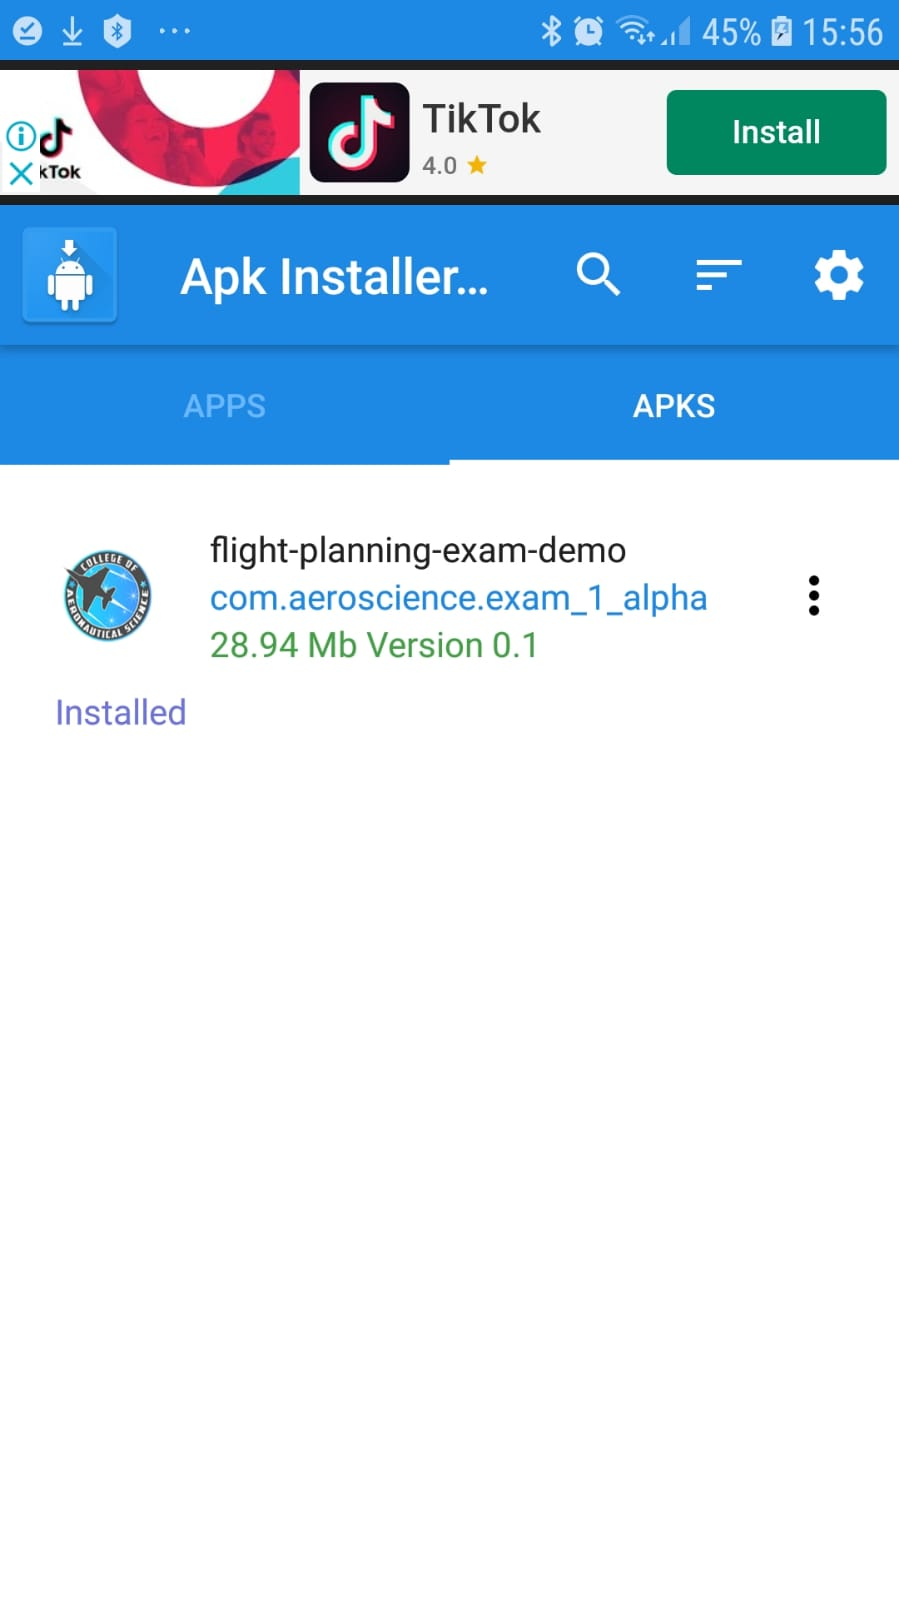
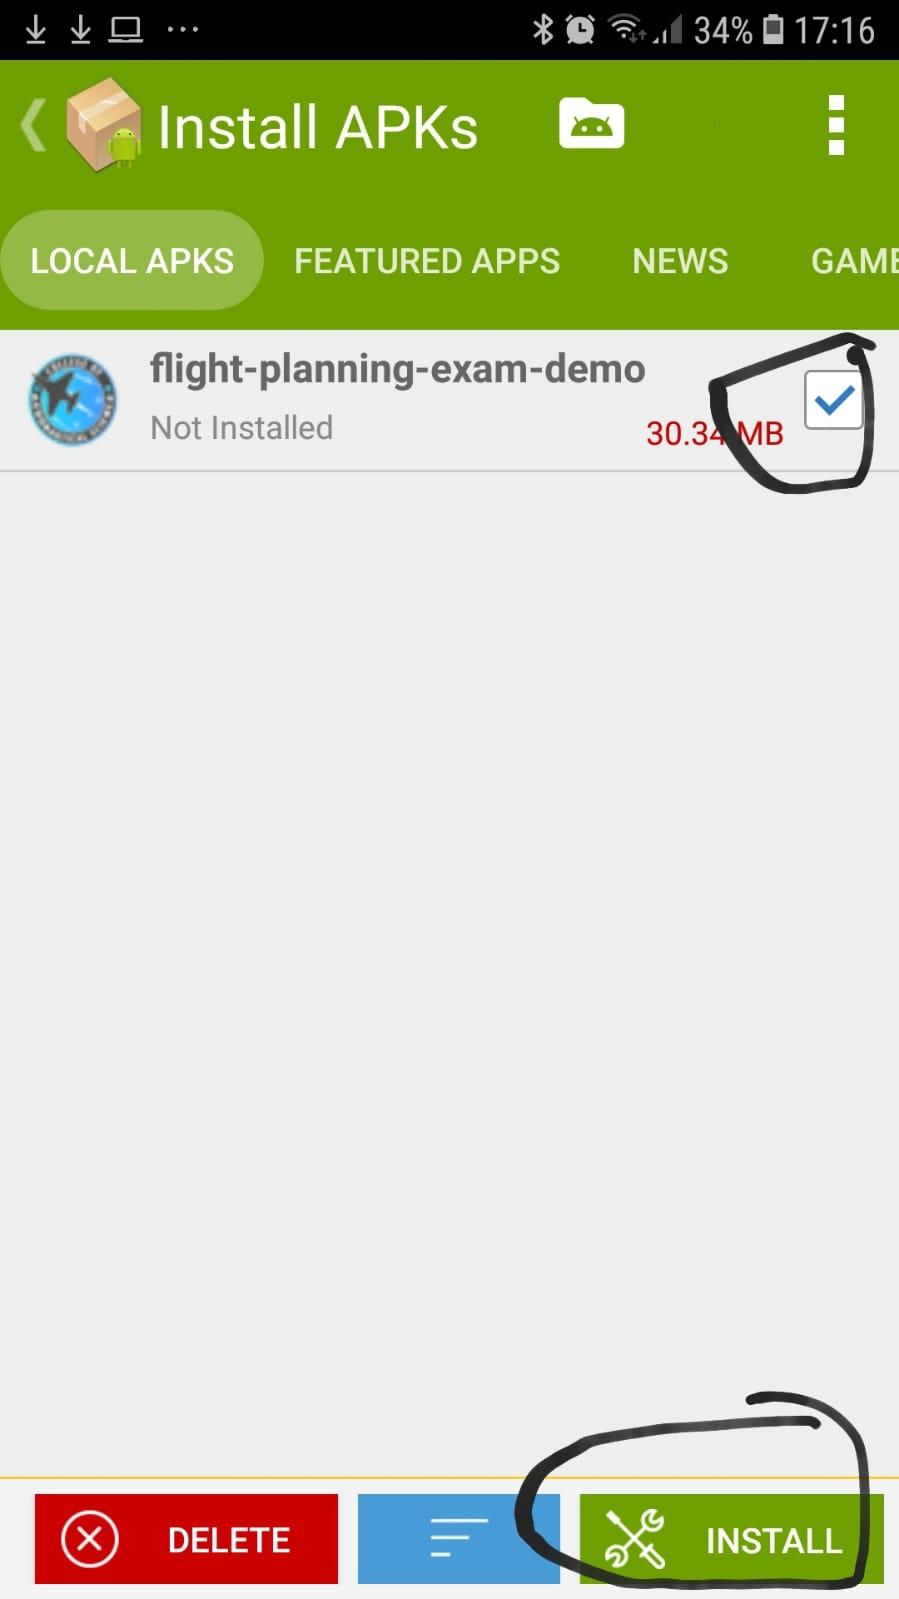
Add instructions on APK installing and Android page

diff --git a/root-files/exam.html b/root-files/exam.html
@@ -61,7 +61,7 @@ li { margin: 5px; }
 
 <h2>Download the app (as an APK file)</h2>
 
-<p>First, make sure you're viewing this page <em>on your phone</em></p>.
+<p>Download the following link by viewing this page <em>on your phone</em>.</p>
 
 <p>
   <strong><a href="./files/flight-exam.apk">Download here</a></strong> for Android
@@ -69,24 +69,53 @@ li { margin: 5px; }
 
 <h2>How to Install</h2>
 
-Download the <strong>APK Installer Pro</strong> app from the
+<p>These instructions are probably better read on your computer while you
+try to perform the following steps on your phone</p>
+
+<h3>Download the APK Installer app</h3>
+
+Download the <strong>APK Installer</strong> app from the
 <strong>Google Play</strong> app.
 
 <p>Its icon should look like this:</p>
 
-<img src="./assets/apk-installer-pro.jpeg" width="50%" border="1">
+<img src="./assets/apk-installer-app.jpeg" width="60%" border="1">
 
-<p>Once you have installed the app, open it and allow all the permissions
-that it asks</p>
+
+<h3>Open APK Installer Pro app and allow permissions</h3>
+
+<p>Once you have installed the app, open it and <strong>allow all the permissions</strong>
+that it asks for.</p>
+
+<h3>Press <strong>Install APK</strong> button</h3>
 
 <p>Next, you need to select the <strong>APK</strong> tab.</p>
 
-<img src="./assets/select-apk-tab.jpeg" width="50%" border="1">
+<img src="./assets/install-apk-button.jpeg" width="60%" border="1">
+
+<h3>Install the Flight Exam app</h3>
 
 <p>You should now see the Flight Exam app there ready to install.</p>
 
-<img src="./assets/install-apk.jpeg" width="50%" border="1">
+<img src="./assets/install-apk.jpeg" width="60%" border="1">
 
+<h3>Allow Unknown Sources permissions</h3>
+
+<p>The app will now ask for Unknown Sources permissions</p>
+
+<img src="./assets/allow-unknown-sources.jpeg" width="60%" border="1">
+
+<p>and then</p>
+
+<img src="./assets/allow-unknown-sources-2.jpeg" width="60%" border="1">
+
+<p>Now press your phone's Back button.</p>
+
+<h3>Press INSTALL ANYWAY if needed</h3>
+
+<p>You may see the following screen. If you do press <strong>INSTALL ANYWAY</strong></p>
+
+<img src="./assets/install-anyway.jpg" width="60%" border="1">
 
 </div>
 </body>

diff --git a/root-files/android.html b/root-files/android.html
@@ -1,0 +1,68 @@
+<html>
+<head>
+<title>Practice Exam</title>
+<meta http-equiv="content-type" content="text/html; charset=iso-8859-1" />
+</head>
+<style>
+
+
+/* Globals */
+html {
+  font-size: 100%;
+  background: #fff;
+  color: #484848;
+}
+body {
+  padding-top: 4.8em; /* 48px */
+  padding-bottom: 14.4em; /* 144px */
+  font: 100% "Myriad Pro", "Lucida Grande", Tahoma, Verdana, Arial, sans-serif;
+}
+
+.content {
+  margin: 0 auto 0 auto;
+  width: 600px;
+}
+a:link, a:visited {
+ color: #000;
+
+
+
+}
+a:hover, a:focus, a:active {
+color: #ff7903;
+
+}
+
+h1, h2 {
+  font-weight: normal;
+  color: 2c84b9;
+}
+
+h3 {
+  color: 4ca5d9;
+}
+
+h2 {
+  font-size: 1.8em; /* 18px */
+  line-height: 1.5em; /* 27px */
+  margin: 2.5em 0 1em 0;
+}
+
+li { margin: 5px; }
+
+</style>
+
+<body>
+
+<div class="content">
+<hr>
+<h1 align="center">Android Games</h1>
+<hr>
+
+<ul>
+  <li><a href="./games/tank-defender.apk">Tank Defender</a>
+</ul>
+</div>
+
+</body>
+</html>
